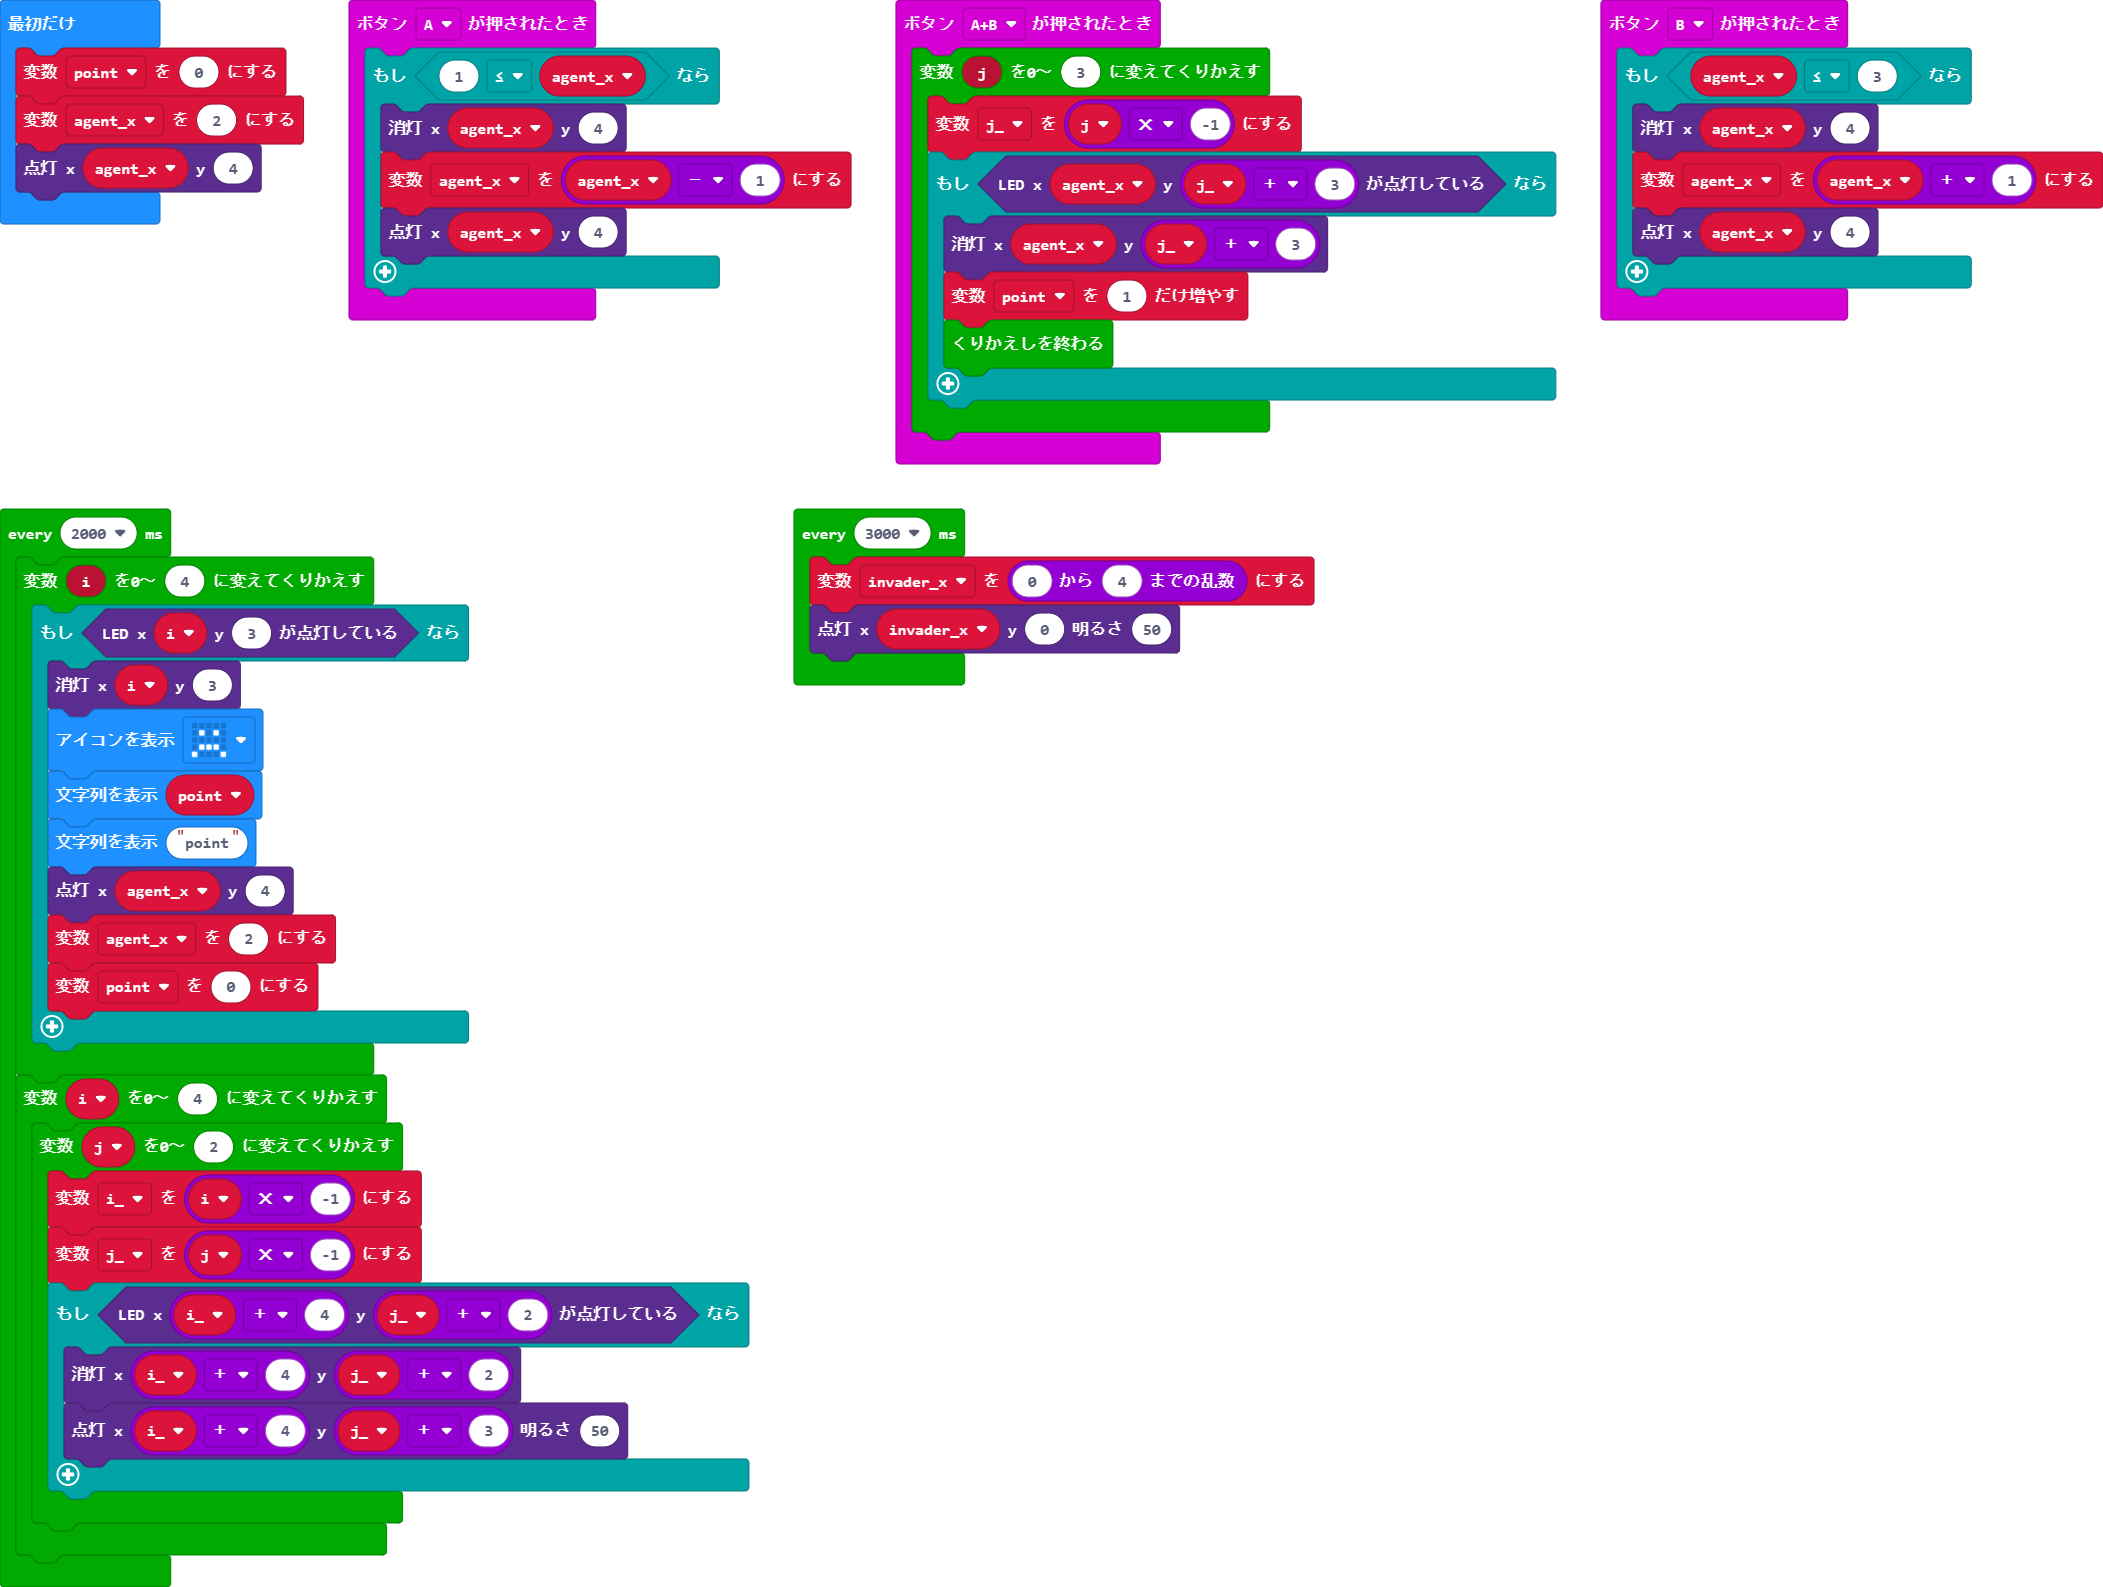
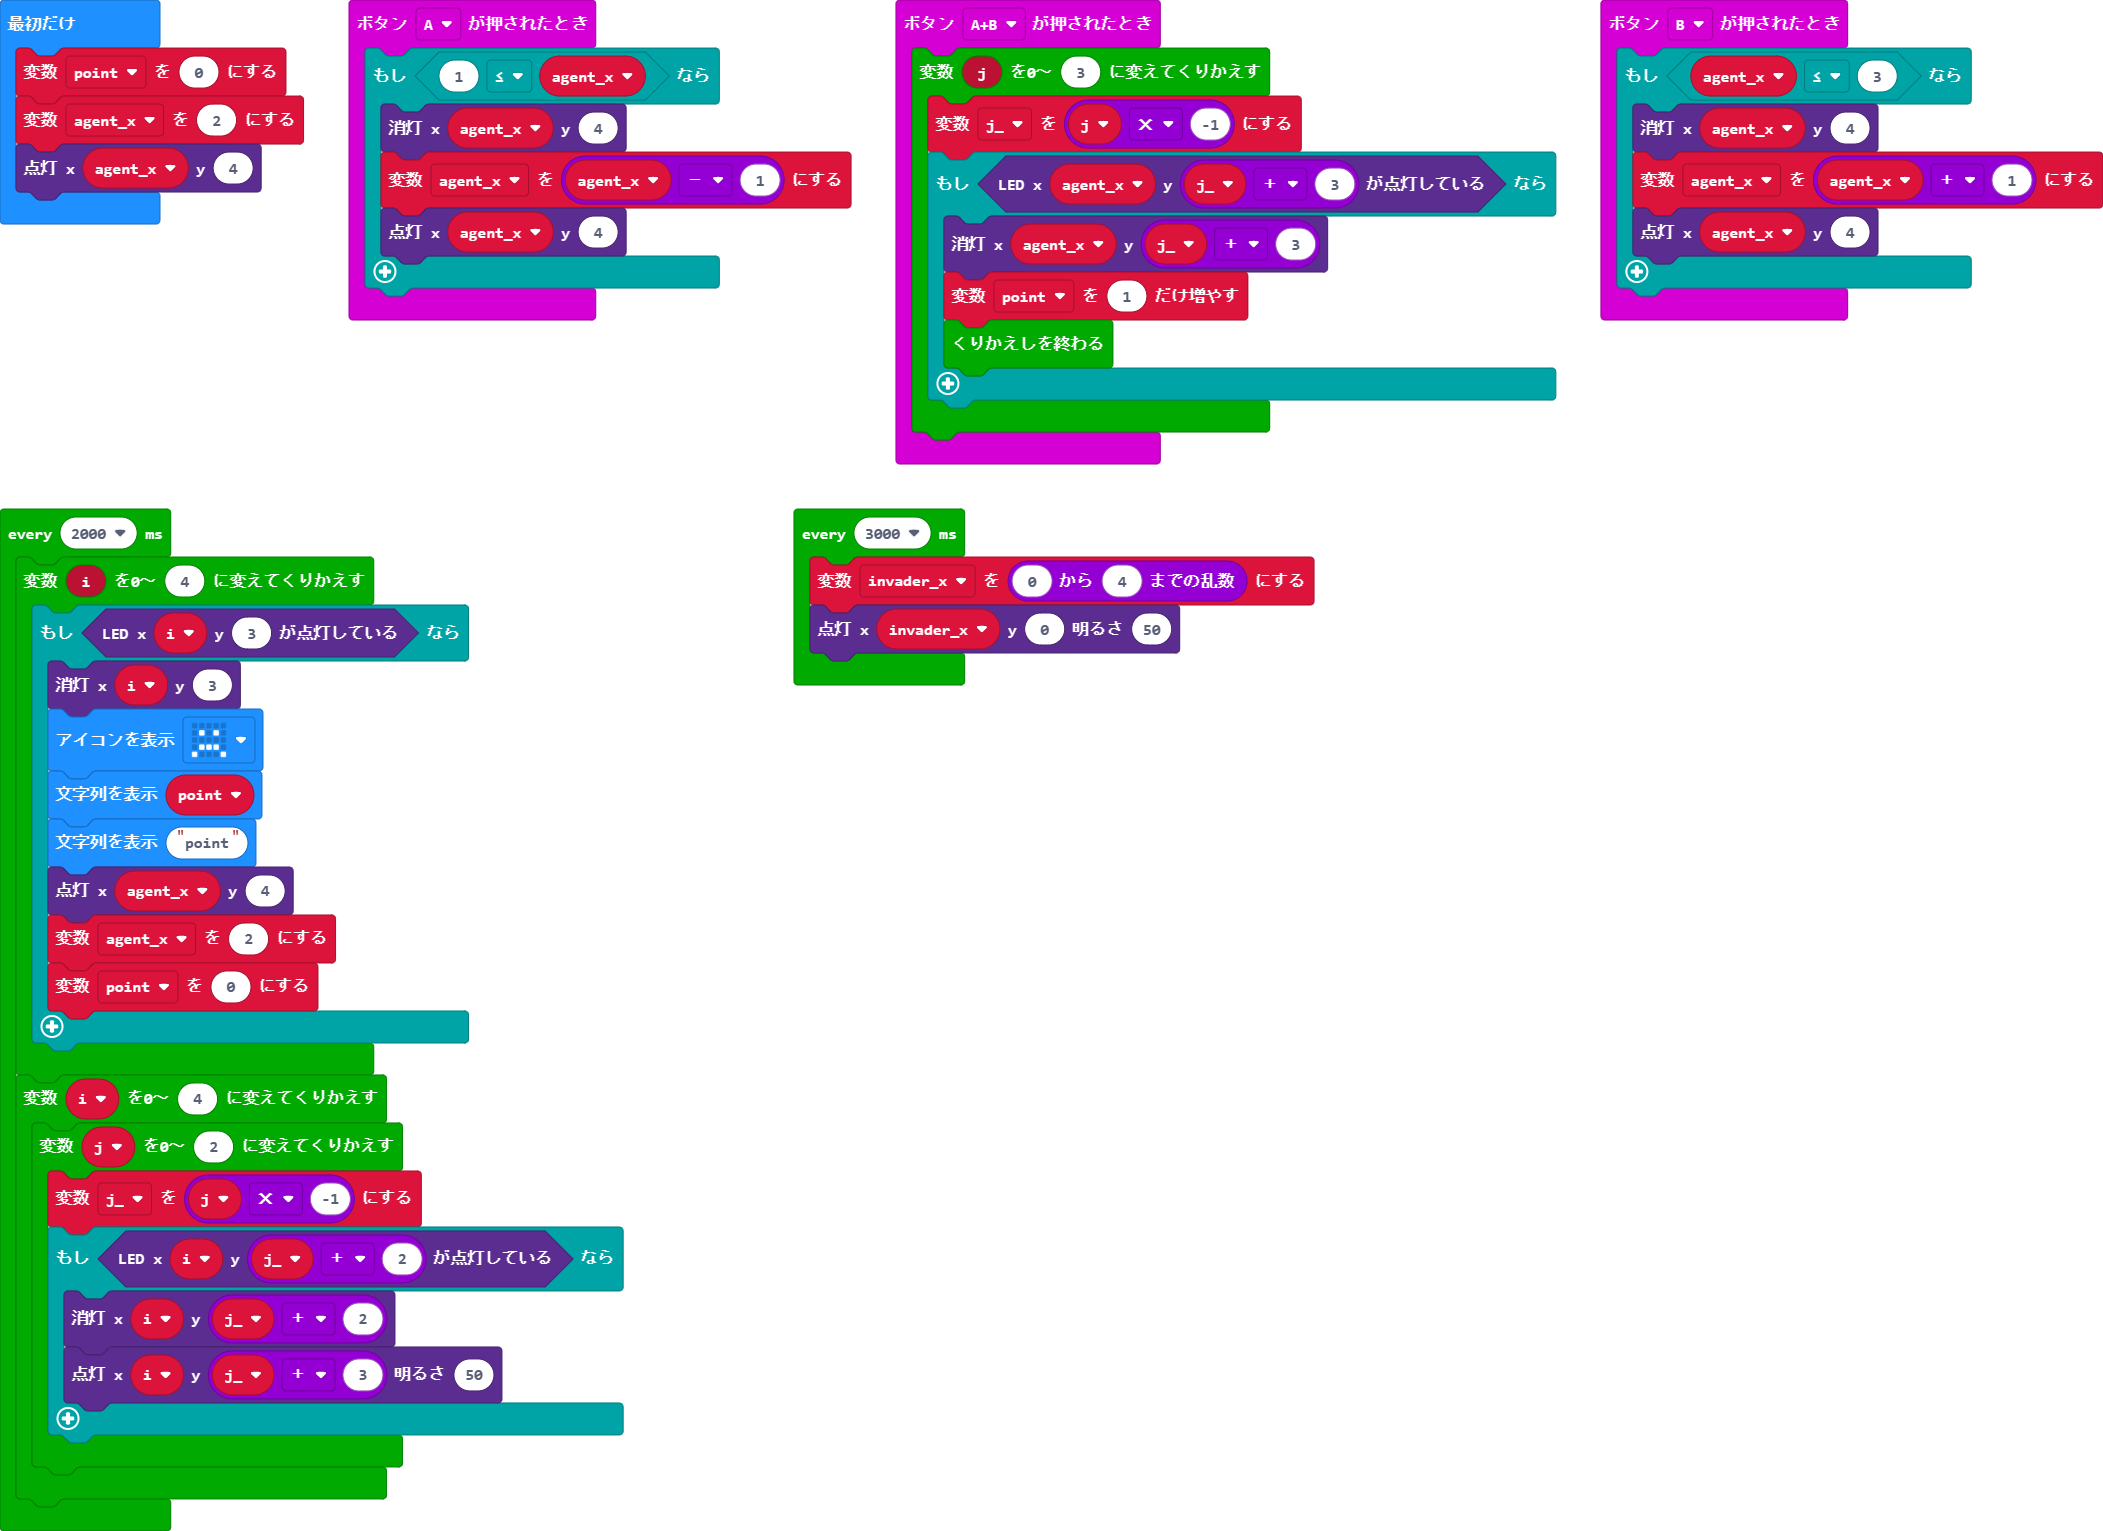
更新 main.blocks, main.ts

diff --git a/main.ts b/main.ts
@@ -23,7 +23,6 @@ input.onButtonPressed(Button.B, function () {
     }
 })
 let invader_x = 0
-let i_ = 0
 let j_ = 0
 let agent_x = 0
 let point = 0
@@ -43,11 +42,10 @@ loops.everyInterval(2000, function () {
     }
     for (let i = 0; i <= 4; i++) {
         for (let j = 0; j <= 2; j++) {
-            i_ = i * -1
             j_ = j * -1
-            if (led.point(i_ + 4, j_ + 2)) {
-                led.unplot(i_ + 4, j_ + 2)
-                led.plotBrightness(i_ + 4, j_ + 3, 50)
+            if (led.point(i, j_ + 2)) {
+                led.unplot(i, j_ + 2)
+                led.plotBrightness(i, j_ + 3, 50)
             }
         }
     }
